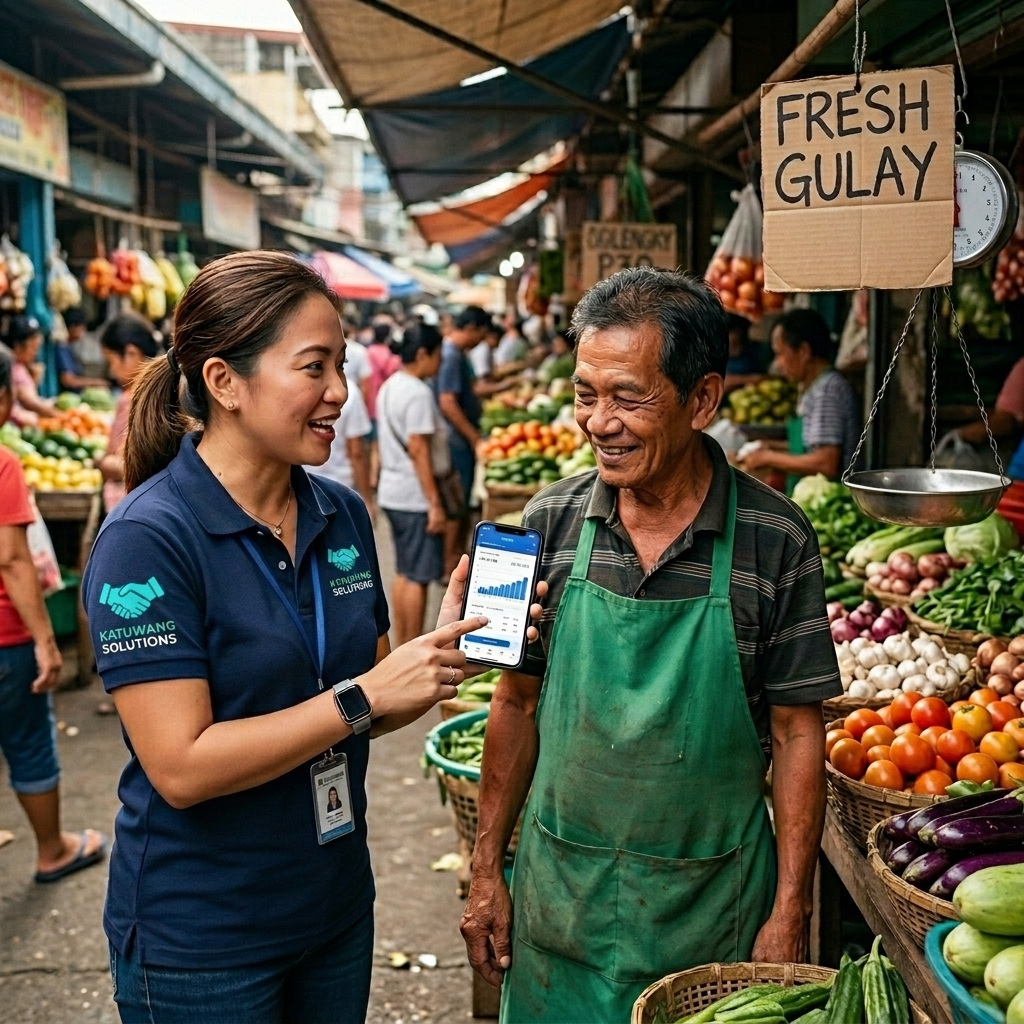
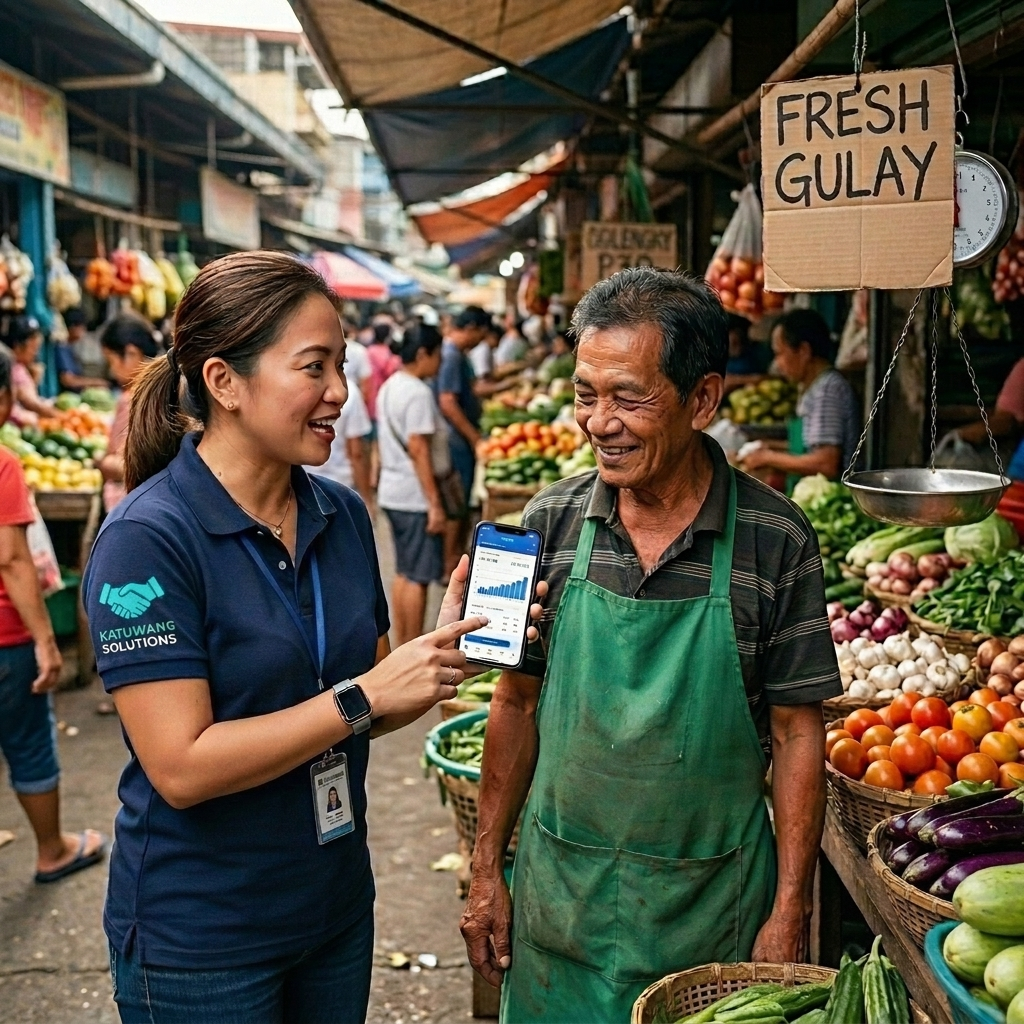
feat: complete Spin Snap laundry dashboard

diff --git a/src/components/dashboard/service/spin-dashboard.tsx b/src/components/dashboard/service/spin-dashboard.tsx
@@ -1,0 +1,252 @@
+"use client"
+
+import React, { useState, useEffect } from 'react';
+import { useTenant } from '@/app/lib/tenant-context';
+import { doc, collection, setDoc, updateDoc, serverTimestamp } from 'firebase/firestore';
+import { useFirestore } from '@/firebase/provider';
+import { Card, CardContent, CardHeader, CardTitle, CardDescription } from "@/components/ui/card";
+import { Badge } from "@/components/ui/badge";
+import { Button } from '@/components/ui/button';
+import { Input } from '@/components/ui/input';
+import { Label } from '@/components/ui/label';
+import { getModuleTheme, useDynamicThemeColor } from '@/lib/theme-utils';
+import { useLaundry } from '@/hooks/use-laundry';
+import { useToast } from '@/hooks/use-toast';
+import { 
+  Shirt, 
+  Plus, 
+  WashingMachine,
+  CheckCircle2,
+  Package,
+  CircleDollarSign,
+  Droplets
+} from "lucide-react";
+
+const RATES: Record<string, number> = {
+  'Wash & Fold': 30,
+  'Wash, Dry, Fold': 40,
+  'Dry Clean': 100,
+  'Ironing': 50,
+};
+
+export function SpinDashboard() {
+  const { currentTenant } = useTenant();
+  const db = useFirestore();
+  const { toast } = useToast();
+  
+  const [isProcessing, setIsProcessing] = useState(false);
+
+  const theme = getModuleTheme(currentTenant?.moduleType);
+  useDynamicThemeColor(theme);
+
+  // Laundry State
+  const { queuedOrders, washingOrders, readyOrders, claimedOrders, loading } = useLaundry();
+
+  // Create Drop-off Form
+  const [showAddForm, setShowAddForm] = useState(false);
+  const [customerName, setCustomerName] = useState('');
+  const [kilos, setKilos] = useState<number | ''>('');
+  const [serviceType, setServiceType] = useState('Wash, Dry, Fold');
+  const [priceOverride, setPriceOverride] = useState<number | ''>('');
+
+  // Auto-calculate suggested price
+  const suggestedPrice = typeof kilos === 'number' ? kilos * RATES[serviceType] : 0;
+  const finalPrice = typeof priceOverride === 'number' ? priceOverride : suggestedPrice;
+
+  const handleAddDropoff = async () => {
+    if (!currentTenant || !db || !customerName || !kilos) return;
+    setIsProcessing(true);
+    try {
+      const orderRef = doc(collection(db, 'tenants', currentTenant.id, 'laundry_orders'));
+      await setDoc(orderRef, {
+        tenantId: currentTenant.id,
+        customerName,
+        kilos,
+        serviceType,
+        status: 'Queued',
+        amountDue: finalPrice * 100, // convert to cents
+        paymentStatus: 'Unpaid',
+        createdAt: serverTimestamp(),
+      });
+      setCustomerName('');
+      setKilos('');
+      setPriceOverride('');
+      setShowAddForm(false);
+      toast({ title: 'Drop-off Recorded!', description: `Laundry for ${customerName} added to queue.` });
+    } catch (e: any) {
+      toast({ title: 'Error', description: e.message, variant: 'destructive' });
+    } finally {
+      setIsProcessing(false);
+    }
+  };
+
+  const updateStatus = async (id: string, status: string, paymentStatus?: string) => {
+    if (!currentTenant || !db) return;
+    try {
+      const orderRef = doc(db, 'tenants', currentTenant.id, 'laundry_orders', id);
+      const updates: any = { status, updatedAt: serverTimestamp() };
+      if (paymentStatus) updates.paymentStatus = paymentStatus;
+      await updateDoc(orderRef, updates);
+      toast({ title: 'Status Updated', description: `Order moved to ${status}.` });
+    } catch (e: any) {
+      toast({ title: 'Error', description: e.message, variant: 'destructive' });
+    }
+  };
+
+  const OrderCard = ({ order, actions }: { order: any, actions: React.ReactNode }) => (
+    <Card className="shadow-sm border-slate-200 mb-3">
+      <CardContent className="p-3">
+        <div className="flex justify-between items-start mb-2">
+          <div>
+            <h4 className="font-bold text-slate-800 text-sm">{order.customerName}</h4>
+            <p className="text-xs text-slate-500">{order.kilos} kg • {order.serviceType}</p>
+          </div>
+          <div className="text-right">
+            <Badge variant="outline" className={order.paymentStatus === 'Paid' ? 'bg-emerald-50 text-emerald-600 border-emerald-200' : 'bg-red-50 text-red-600 border-red-200'}>
+              {order.paymentStatus}
+            </Badge>
+            <p className="text-sm font-bold text-slate-700 mt-1">₱{(order.amountDue / 100).toLocaleString()}</p>
+          </div>
+        </div>
+        <div className="mt-3 flex gap-2">
+          {actions}
+        </div>
+      </CardContent>
+    </Card>
+  );
+
+  return (
+    <div className="flex-1 flex flex-col bg-slate-50 min-h-screen">
+      <main className="p-4 space-y-4 pb-24">
+        
+        <section className="flex items-center justify-between bg-white p-4 rounded-2xl shadow-sm border border-slate-100">
+          <div className="flex items-center gap-3">
+            <div 
+              className="p-2 rounded-xl transition-colors duration-300"
+              style={{ backgroundColor: `${theme.primary}15`, color: theme.primary }}
+            >
+              <WashingMachine className="h-6 w-6" />
+            </div>
+            <div>
+              <h3 className="text-lg font-headline font-bold">{currentTenant?.name || 'Laundry Shop'}</h3>
+              <p className="text-xs text-muted-foreground font-medium uppercase tracking-widest">{theme.name}</p>
+            </div>
+          </div>
+          <Button size="sm" className="h-8 w-8 rounded-full p-0" onClick={() => setShowAddForm(!showAddForm)} style={{ backgroundColor: theme.primary }}>
+            <Plus className="h-4 w-4" />
+          </Button>
+        </section>
+
+        {showAddForm && (
+          <Card className="shadow-sm border-slate-200 bg-white border-l-4" style={{ borderLeftColor: theme.primary }}>
+            <CardHeader className="p-4 pb-2">
+              <CardTitle className="text-sm font-bold flex items-center gap-2"><Shirt className="h-4 w-4" /> New Drop-off</CardTitle>
+            </CardHeader>
+            <CardContent className="p-4 space-y-3 pt-0">
+              <div className="space-y-1">
+                <Label className="text-xs">Customer Name</Label>
+                <Input placeholder="e.g. Juan Cruz" value={customerName} onChange={e => setCustomerName(e.target.value)} />
+              </div>
+              <div className="flex gap-2">
+                <div className="flex-1 space-y-1">
+                  <Label className="text-xs">Weight (Kilos)</Label>
+                  <Input type="number" placeholder="0" value={kilos} onChange={e => setKilos(parseFloat(e.target.value) || '')} />
+                </div>
+                <div className="flex-1 space-y-1">
+                  <Label className="text-xs">Service</Label>
+                  <select 
+                    className="w-full border-slate-200 rounded-md border p-2 text-sm h-9"
+                    value={serviceType}
+                    onChange={(e) => setServiceType(e.target.value)}
+                  >
+                    {Object.keys(RATES).map(type => (
+                      <option key={type} value={type}>{type} (₱{RATES[type]}/kg)</option>
+                    ))}
+                  </select>
+                </div>
+              </div>
+              <div className="space-y-1">
+                <Label className="text-xs flex justify-between">
+                  <span>Total Price (₱)</span>
+                  <span className="text-muted-foreground">Suggested: ₱{suggestedPrice}</span>
+                </Label>
+                <Input type="number" placeholder={`₱${suggestedPrice}`} value={priceOverride} onChange={e => setPriceOverride(parseFloat(e.target.value) || '')} />
+              </div>
+              <Button 
+                className="w-full h-8 text-xs font-bold text-white" 
+                style={{ backgroundColor: theme.primary }}
+                onClick={handleAddDropoff}
+                disabled={isProcessing || !customerName || !kilos}
+              >
+                Log Laundry
+              </Button>
+            </CardContent>
+          </Card>
+        )}
+
+        {loading ? (
+          <div className="text-center py-8 text-sm text-slate-400">Loading orders...</div>
+        ) : (
+          <div className="flex flex-col md:flex-row gap-4 overflow-x-auto pb-4">
+            
+            {/* Queued Column */}
+            <div className="flex-1 min-w-[300px]">
+              <div className="flex items-center gap-2 mb-3 px-1">
+                <Package className="h-4 w-4 text-amber-500" />
+                <h4 className="font-bold text-sm text-slate-700">Queued</h4>
+                <Badge variant="secondary" className="bg-white ml-auto">{queuedOrders.length}</Badge>
+              </div>
+              <div className="space-y-2">
+                {queuedOrders.map(order => (
+                  <OrderCard key={order.id} order={order} actions={
+                    <Button size="sm" className="w-full h-7 text-[10px] bg-slate-800" onClick={() => updateStatus(order.id!, 'Washing')}>
+                      <Droplets className="h-3 w-3 mr-1" /> Start Washing
+                    </Button>
+                  } />
+                ))}
+              </div>
+            </div>
+
+            {/* Washing Column */}
+            <div className="flex-1 min-w-[300px]">
+              <div className="flex items-center gap-2 mb-3 px-1">
+                <Droplets className="h-4 w-4 text-cyan-500" />
+                <h4 className="font-bold text-sm text-slate-700">Washing / Drying</h4>
+                <Badge variant="secondary" className="bg-white ml-auto">{washingOrders.length}</Badge>
+              </div>
+              <div className="space-y-2">
+                {washingOrders.map(order => (
+                  <OrderCard key={order.id} order={order} actions={
+                    <Button size="sm" className="w-full h-7 text-[10px] bg-indigo-500 hover:bg-indigo-600" onClick={() => updateStatus(order.id!, 'Ready')}>
+                      <CheckCircle2 className="h-3 w-3 mr-1" /> Mark Ready
+                    </Button>
+                  } />
+                ))}
+              </div>
+            </div>
+
+            {/* Ready Column */}
+            <div className="flex-1 min-w-[300px]">
+              <div className="flex items-center gap-2 mb-3 px-1">
+                <Shirt className="h-4 w-4 text-emerald-500" />
+                <h4 className="font-bold text-sm text-slate-700">Ready for Pickup</h4>
+                <Badge variant="secondary" className="bg-white ml-auto">{readyOrders.length}</Badge>
+              </div>
+              <div className="space-y-2">
+                {readyOrders.map(order => (
+                  <OrderCard key={order.id} order={order} actions={
+                    <Button size="sm" className="w-full h-7 text-[10px] bg-emerald-500 hover:bg-emerald-600" onClick={() => updateStatus(order.id!, 'Claimed', 'Paid')}>
+                      <CircleDollarSign className="h-3 w-3 mr-1" /> Pay & Claim
+                    </Button>
+                  } />
+                ))}
+              </div>
+            </div>
+
+          </div>
+        )}
+
+      </main>
+    </div>
+  );
+}

diff --git a/src/hooks/use-laundry.tsx b/src/hooks/use-laundry.tsx
@@ -1,0 +1,37 @@
+'use client';
+
+import { useCollection } from '@/firebase/firestore/use-collection';
+import { collection, query, orderBy } from 'firebase/firestore';
+import { useFirestore } from '@/firebase/provider';
+import { useTenant } from '@/app/lib/tenant-context';
+import { LaundryOrderModel, LaundryOrderSchema } from '@/lib/schemas/laundry';
+import { createConverter } from '@/firebase';
+
+export function useLaundry() {
+  const { currentTenant } = useTenant();
+  const db = useFirestore();
+
+  const laundryQuery = currentTenant && db
+    ? query(
+        collection(db, 'tenants', currentTenant.id, 'laundry_orders').withConverter(createConverter(LaundryOrderSchema)),
+        orderBy('createdAt', 'desc')
+      )
+    : null;
+
+  const { data, loading, error } = useCollection<LaundryOrderModel>(laundryQuery);
+
+  const queuedOrders = data.filter(o => o.status === 'Queued');
+  const washingOrders = data.filter(o => o.status === 'Washing');
+  const readyOrders = data.filter(o => o.status === 'Ready');
+  const claimedOrders = data.filter(o => o.status === 'Claimed');
+
+  return { 
+    orders: data, 
+    queuedOrders,
+    washingOrders,
+    readyOrders,
+    claimedOrders,
+    loading, 
+    error 
+  };
+}

diff --git a/src/components/dashboard/tenant-dashboard.tsx b/src/components/dashboard/tenant-dashboard.tsx
@@ -16,6 +16,7 @@ import { PayrollDashboard } from '@/components/dashboard/finance/payroll-dashboa
 import { FoodDashboard } from '@/components/dashboard/food/food-dashboard';
 import { TimplaDashboard } from '@/components/dashboard/food/timpla-dashboard';
 import { GanapDashboard } from '@/components/dashboard/events/ganap-dashboard';
+import { SpinDashboard } from '@/components/dashboard/service/spin-dashboard';
 import { FleetDashboard } from '@/components/dashboard/logistics/fleet-dashboard';
 import { KatuwangErrorBoundary } from '@/components/common/error-boundary';
 import { SnapDate } from '@/components/snap-date';
@@ -159,7 +160,11 @@ export function TenantDashboard({ activeTab }: { activeTab?: string }) {
       return <HiramDashboard />;
     }
 
-    const serviceModules = ['spin-snap', 'hydro-sync', 'shine-sync', 'glow-sync', 'rep-sync'];
+    if (currentTenant.moduleType === 'spin-snap') {
+      return <SpinDashboard />;
+    }
+
+    const serviceModules = ['hydro-sync', 'shine-sync', 'glow-sync', 'rep-sync'];
     if (serviceModules.includes(currentTenant.moduleType || '')) {
       return <ServiceDashboard />;
     }

diff --git a/src/lib/schemas/laundry.ts b/src/lib/schemas/laundry.ts
@@ -1,0 +1,16 @@
+import { z } from 'zod';
+
+export const LaundryOrderSchema = z.object({
+  id: z.string().optional(),
+  tenantId: z.string(),
+  customerName: z.string().min(2, 'Customer name is required'),
+  kilos: z.number().min(0.5, 'Must be at least 0.5 kilos'),
+  serviceType: z.enum(['Wash & Fold', 'Wash, Dry, Fold', 'Dry Clean', 'Ironing']).default('Wash, Dry, Fold'),
+  status: z.enum(['Queued', 'Washing', 'Ready', 'Claimed']).default('Queued'),
+  amountDue: z.number().min(0), // in cents
+  paymentStatus: z.enum(['Unpaid', 'Paid']).default('Unpaid'),
+  createdAt: z.any().optional(),
+  updatedAt: z.any().optional(),
+});
+
+export type LaundryOrderModel = z.infer<typeof LaundryOrderSchema>;

diff --git a/src/app/page.tsx b/src/app/page.tsx
@@ -65,7 +65,7 @@ const appGroups: AppGroup[] = [
     apps: [
       { name: 'Bite Snap',    icon: Utensils,        tagline: 'Order, bayad, at resibo — in seconds.', imageSrc: '/apps/bite-snap.png' },
       { name: 'Timpla Track', icon: Coffee,           tagline: 'Cafe operations, simplified.',          imageSrc: '/apps/timpla-track.png' },
-      { name: 'Ganap Master',   icon: CalendarHeart, tagline: 'Design the venue. Master the event.',     imageSrc: '/apps/ganap-master.png' },
+      { name: 'Ganap Master',   icon: CalendarHeart, tagline: 'Plan the details. Master the event.',     imageSrc: '/apps/ganap-master.png' },
     ],
   },
   {

diff --git a/src/components/dashboard/retail/build-stack-dashboard.tsx b/src/components/dashboard/retail/build-stack-dashboard.tsx
@@ -13,7 +13,7 @@ import { Button } from '@/components/ui/button';
 import { Tabs, TabsContent, TabsList, TabsTrigger } from "@/components/ui/tabs";
 import { Package, Truck, HardHat, TrendingUp, Plus } from "lucide-react";
 import { useProjects } from '@/hooks/use-projects';
-import { useInventory } from '@/firebase/firestore/use-inventory';
+import { useInventory } from '@/hooks/use-inventory';
 import { useFirestore } from '@/firebase/provider';
 import { doc, collection, runTransaction, serverTimestamp } from 'firebase/firestore';
 import { useToast } from '@/hooks/use-toast';

diff --git a/src/components/dashboard/events/ganap-dashboard.tsx b/src/components/dashboard/events/ganap-dashboard.tsx
@@ -119,7 +119,7 @@ export function GanapDashboard() {
         role: newVendorRole,
         name: newVendorName,
         contact: newVendorContact,
-        status: 'Pending'
+        status: 'Pending' as const
       };
       const updatedVendors = [...(selectedEvent.vendors || []), newVendor];
       
